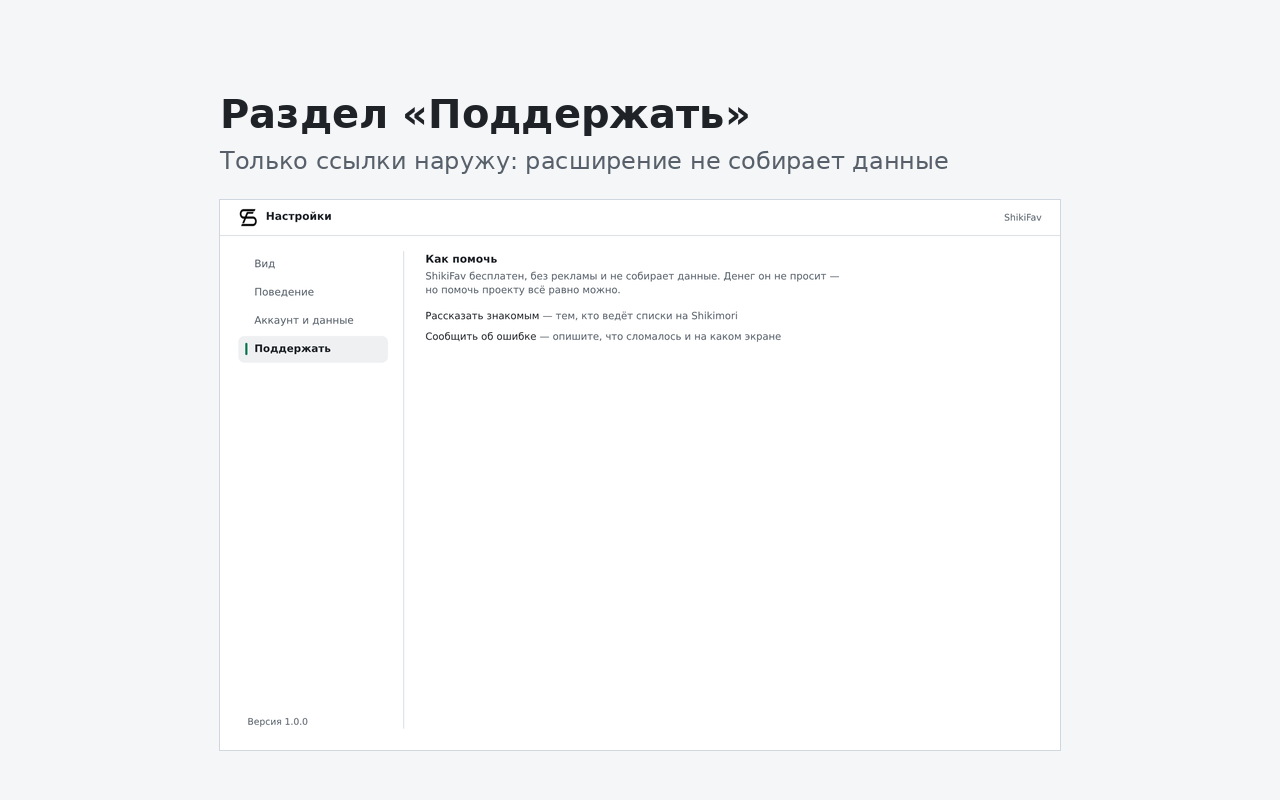
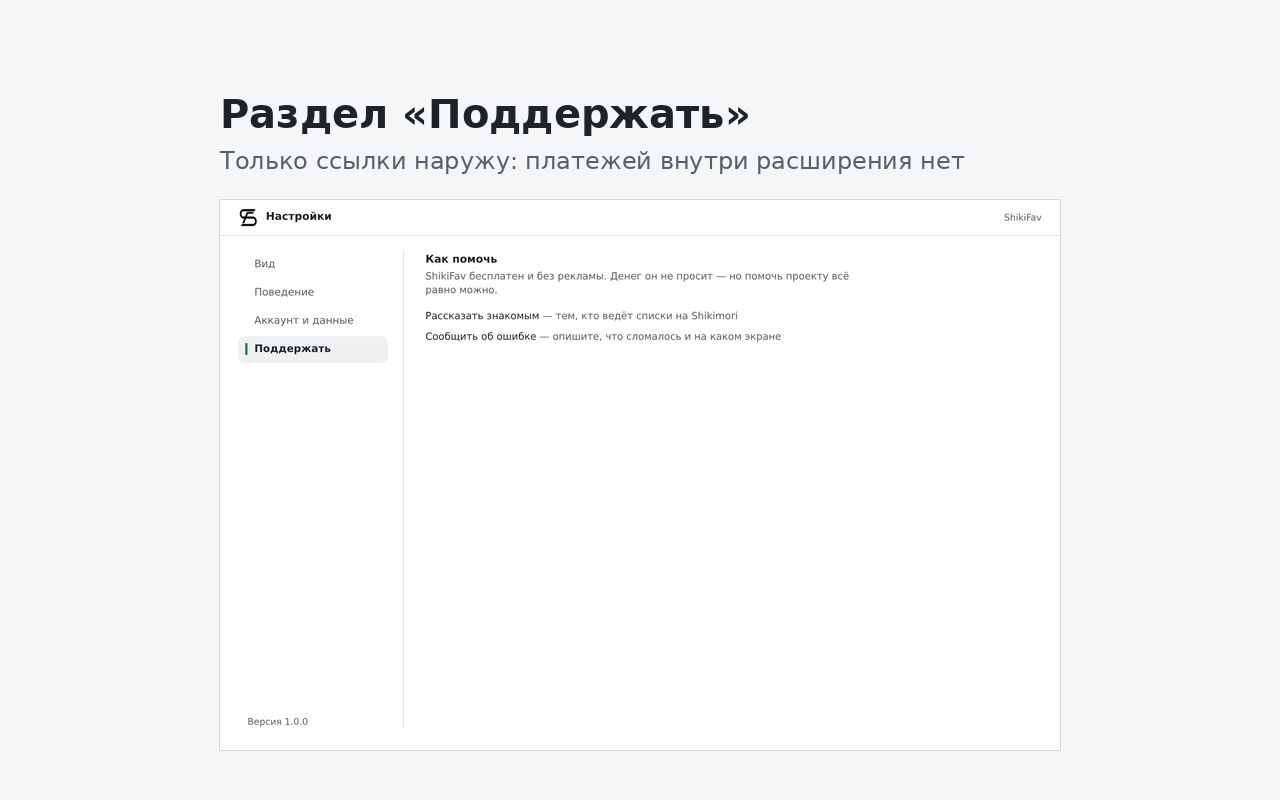
docs: record the analytics in the architecture and UI docs, reshoot the stale frame
docs/02 claimed to list every message and every storage key, and knew about
neither analytics.track nor analyticsClientId; it now also describes the two
collection points and why the client bypasses http.ts. docs/05 gains the new
settings row, measured: «Поведение» is still the tallest section at 461.31 px,
so the 460 px floor stands and switching sections still does not move the page.

The support frame said "расширение не собирает данные" in its caption while
the code reported usage events. Reshot from a fresh production build; the
other five frames came out byte-identical, which is the pipeline behaving.

Fixing it surfaced a real break in that pipeline: three scripts wrote their
intermediates to the working directory while capture.py read them next to
itself, so the documented run from the repo root died on FileNotFoundError —
and the stray files landed where .gitignore did not cover them.

Changed region(s): [[0.4062, 0.1875, 0.75, 0.2188], [0.3438, 0.3438, 0.6562, 0.375]]

diff --git a/scripts/store-shots/fetch-demo-data.py b/scripts/store-shots/fetch-demo-data.py
@@ -1,4 +1,10 @@
 import json, urllib.request
+import os
+# Промежуточные файлы лежат рядом со скриптами — там же их ищет
+# capture.py, и ровно эти пути перечислены в .gitignore. Каталог
+# запуска роли не играет: README зовёт скрипты из корня репозитория.
+HERE = os.path.dirname(os.path.abspath(__file__))
+
 
 def gql(q):
     req = urllib.request.Request('https://shikimori.io/api/graphql',
@@ -9,7 +15,7 @@ def gql(q):
 search = gql('{animes(search:"kimetsu", limit:6, order:popularity){id name russian kind score status episodes episodesAired airedOn{year} poster{miniUrl mini2xUrl} url}}')
 ongoing = gql('{animes(status:"ongoing", limit:12, order:popularity){id name russian episodes episodesAired nextEpisodeAt poster{miniUrl mini2xUrl} url}}')
 popular = gql('{animes(limit:12, order:popularity){id name russian episodes poster{miniUrl mini2xUrl} url}}')
-json.dump({'search': search, 'ongoing': ongoing, 'popular': popular}, open('demo-data.json','w'), ensure_ascii=False)
+json.dump({'search': search, 'ongoing': ongoing, 'popular': popular}, open(f'{HERE}/demo-data.json','w'), ensure_ascii=False)
 print('search:', len(search), '| ongoing:', len(ongoing), '| popular:', len(popular))
 print('пример постера:', search[0]['poster']['miniUrl'] if search[0]['poster'] else None)
 print('с датой серии:', sum(1 for a in ongoing if a['nextEpisodeAt']), 'из', len(ongoing))

diff --git a/scripts/store-shots/stub.py b/scripts/store-shots/stub.py
@@ -1,5 +1,11 @@
 import json, random
-d = json.load(open('demo-data.json')); random.seed(11)
+import os
+# Промежуточные файлы лежат рядом со скриптами — там же их ищет
+# capture.py, и ровно эти пути перечислены в .gitignore. Каталог
+# запуска роли не играет: README зовёт скрипты из корня репозитория.
+HERE = os.path.dirname(os.path.abspath(__file__))
+
+d = json.load(open(f'{HERE}/demo-data.json')); random.seed(11)
 
 def p(a):
     q = a.get('poster') or {}
@@ -34,5 +40,5 @@ json.dump({
   'SearchAnimes':  {'data': {'animes': [search(a, i) for i, a in enumerate(d['search'])]}},
   'MylistAnimes':  {'data': {'animes': [mylist(a, i) for i, a in enumerate(d['popular'][:8])]}},
   'CalendarAnimes':{'data': {'animes': [calendar(a, i) for i, a in enumerate(d['ongoing'])]}},
-}, open('stubs.json','w'), ensure_ascii=False)
+}, open(f'{HERE}/stubs.json','w'), ensure_ascii=False)
 print('заглушки готовы')

diff --git a/scripts/store-shots/compose.py b/scripts/store-shots/compose.py
@@ -20,7 +20,10 @@ SHOTS = [
 
 PAGES = [
     ('options',         'Настройки под себя',   'Стартовая вкладка, статус в один клик, фильтры по умолчанию'),
-    ('options-support', 'Раздел «Поддержать»',  'Только ссылки наружу: расширение не собирает данные'),
+    # Подпись пережила фазу 10 и говорила «не собирает данные», когда код уже
+    # отправлял статистику. Про раздел «Поддержать» верно то, что он не
+    # принимает платежей, — это и осталось.
+    ('options-support', 'Раздел «Поддержать»',  'Только ссылки наружу: платежей внутри расширения нет'),
 ]
 
 def bg(theme):

diff --git a/scripts/store-shots/seed.py b/scripts/store-shots/seed.py
@@ -1,5 +1,11 @@
 import json, random
-d = json.load(open('demo-data.json'))
+import os
+# Промежуточные файлы лежат рядом со скриптами — там же их ищет
+# capture.py, и ровно эти пути перечислены в .gitignore. Каталог
+# запуска роли не играет: README зовёт скрипты из корня репозитория.
+HERE = os.path.dirname(os.path.abspath(__file__))
+
+d = json.load(open(f'{HERE}/demo-data.json'))
 random.seed(7)
 
 def poster(a):
@@ -59,5 +65,5 @@ seed = {
     'lastCalendar': {'items': cal, 'fetchedAt': 0},
   },
 }
-json.dump(seed, open('seed.json','w'), ensure_ascii=False)
+json.dump(seed, open(f'{HERE}/seed.json','w'), ensure_ascii=False)
 print('поиск:', len(search_items), '| строк списка:', len(rows), '| календарь:', len(cal))

diff --git a/docs/02-architecture.md b/docs/02-architecture.md
@@ -49,6 +49,7 @@
 | `rates.delete` | `{ rateId }` | `{}` |
 | `rates.increment` | `{ rateId }` | `{ rate }` |
 | `settings.setOrigin` | `{ origin }` | `{}` (смена домена API: завершает сессию, затем пишет origin) |
+| `analytics.track` | `AnalyticsEvent` | `{}` (анонимная статистика, фаза 10; payload — закрытый union, свободного текста в нём нет по построению) |
 
 Правила:
 - Все типы сообщений — в одном `MessageMap` в `src/lib/messaging.ts`; хелперы `sendMessage(type, payload)` (типобезопасный) и `onMessage(handlers)` для background.
@@ -57,6 +58,18 @@
 - `calendar.list` — без payload и без страниц на проводе: у календаря нет кнопки «Ещё», поэтому пагинацию (`limit: 50`, последовательно, жёсткий предел 3 страницы) целиком делает `listCalendar()` в background и отвечает готовым списком. Ответ уже отфильтрован: только `status: ongoing` и только мои статусы — серверные аргументы `mylist` + `status` продублированы клиентским гардом в маппере (docs/03, чекбокс закрыт частично); гард отбрасывает только явно чужой статус тайтла, `status: null` остаётся (Ф7-14).
 - `settings.setOrigin` — единственное сообщение про настройки. Смена домена завершает сессию по построению: токен выдан приложением на одном домене, кросс-доменная валидность не проверялась, а `.one` отвечает 301 на `POST /oauth/token` и там его даже нельзя обновить (docs/03, docs/04). Порядок в обработчике строгий: сначала `logout()`, только потом запись `origin` — обратный порядок открыл бы окно, где новый origin уже в storage, а старый токен ещё там, и любой запрос в этот момент ушёл бы на новый домен с чужим Bearer. Страница настроек после ответа перечитывает состояние авторизации.
 - Остальные настройки UI пишет прямо в storage через `setSettings` (правило 1 CLAUDE.md ограничивает сеть, а не storage): лишнее сообщение будило бы service worker впустую, против бюджета открытия popup (docs/05).
+- `analytics.track` — единственное сообщение, которое UI шлёт, ничего не ожидая: `reportEvent()` (`src/lib/analytics-report.ts`) делает `void sendMessage(...)`, потому что ни один кадр на экране не должен ждать измерения. Payload типизирован `AnalyticsEvent` — закрытым union, а не `{ name: string; params: object }`: открытая сигнатура позволила бы приложить к сообщению поисковый запрос, и обещание из PRIVACY.md держалось бы на внимательности автора вызова, а не на типах.
+
+### Съём статистики (фаза 10)
+
+Точек съёма две, и обе — единственные в своём роде:
+
+- **Background.** Таблица хендлеров обёрнута в `measured()` (`entrypoints/background.ts`): после успешного хендлера чистый маппинг `eventForMessage()` (`src/lib/analytics-from-message.ts`) решает, рождает ли это сообщение событие, а при ошибке хендлера тот же обёрточный слой сообщает `api_failed` с `kind` (и `status`, где он есть) и пробрасывает ошибку дальше. Хендлеры о существовании статистики не знают; чтобы ответить «что расширение сообщает», достаточно прочитать один маппинг.
+- **UI.** То, что до background не доходит: вкладка, на которой открылся popup, и изменённая настройка. Через `reportEvent()`, то есть тем же сообщением.
+
+Отправку делает `src/lib/api/analytics.ts` — **намеренно не через `http.ts`**. Тот клиент существует для Shikimori: цепляет Bearer, ставит User-Agent с именем OAuth-приложения и ставит запрос в очередь лимитера 4 rps / 80 rpm (правила 1–3 CLAUDE.md). К Google не должно уходить ничего из этого, а бюджет запросов к Shikimori не должен тратиться на измерения. Общее у двух клиентов ровно одно — оба живут в background.
+
+Три состояния, и два из них молчат: пустой `.env` (нет свойства GA4) — полный no-op; выключенная настройка — ни одного запроса плюс удаление случайного идентификатора установки; иначе — один запрос на событие. Батчинга нет осознанно: в MV3 воркер умирает через несколько секунд простоя, и буфер под флаш — это буфер, который чаще всего выбрасывают.
 
 ## Хранилище
 
@@ -78,7 +91,15 @@ interface LocalState {
     quickStatus: UserRateStatus;           // default 'planned' — кнопка быстрого добавления
     defaultSearchType: SearchType;         // default 'anime'
     defaultListStatus: UserRateStatus;     // default 'watching' — стартовый фильтр «Моих списков»
+    // Ф10-2. Единственный дефолт, который НЕ повторяет поведение до появления
+    // настройки: opt-out по решению владельца — включено, пока не выключат.
+    analytics: boolean;                    // default true
   };
+  // Ф10-4. Случайный UUID, создаётся при первом отправленном событии и
+  // удаляется при выключении статистики. Намеренно не выводится из аккаунта
+  // Shikimori: он не должен быть способом связать измерение с человеком, и
+  // должен переживать выход, ничего сам по себе не значая.
+  analyticsClientId?: string;
 }
 
 // chrome.storage.session — живой кэш (терять не страшно):

diff --git a/scripts/store-shots/README.md b/scripts/store-shots/README.md
@@ -11,7 +11,9 @@ python3 scripts/store-shots/capture.py           # headless Chrome → raw-*.png
 python3 scripts/store-shots/compose.py           # → store-*.png 1280×800
 ```
 
-Требуется `google-chrome` и python3 с Pillow. Промежуточные файлы (`demo-data.json`, `seed.json`, `stubs.json`, `raw-*.png`) появляются рядом со скриптами и в git не хранятся.
+Готовые кадры `compose.py` кладёт рядом с собой — перенести в витрину: `cp scripts/store-shots/store-*.png store-assets/screenshots/`.
+
+Требуется `google-chrome` и python3 с Pillow. Промежуточные файлы (`demo-data.json`, `seed.json`, `stubs.json`, `raw-*.png`) появляются рядом со скриптами и в git не хранятся — **с 2026-07-30 это правда**: до того три скрипта писали их в текущий каталог, то есть в корень репозитория, где их не покрывал `.gitignore`, а `capture.py` искал рядом с собой и падал с `FileNotFoundError`. Пайплайн из этого README работал только при запуске из самого каталога скриптов.
 
 ## Почему так, а не проще
 
